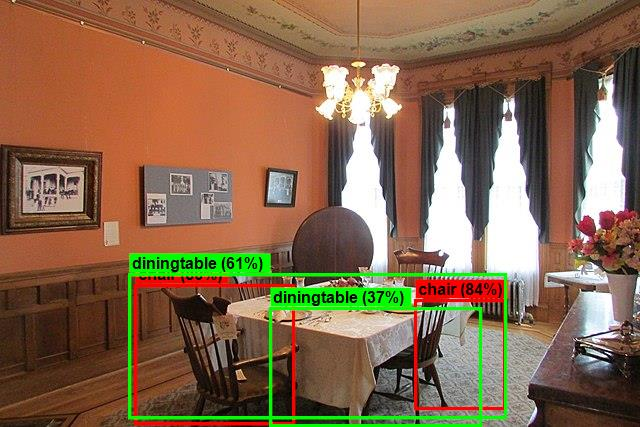
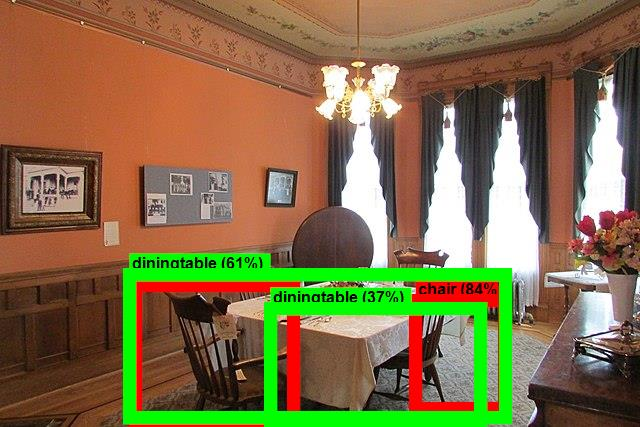
update

Changed region(s): [[0.1875, 0.6089, 0.8125, 1.0]]

diff --git a/ObjectDetection/Program.cs b/ObjectDetection/Program.cs
@@ -95,7 +95,7 @@ namespace ObjectDetection
                     SolidBrush fontBrush = new SolidBrush(Color.Black);
                     Point atPoint = new Point((int)x, (int)y - (int)size.Height - 1);
 
-                    Pen pen = new Pen(box.BoxColor, 3.2f);
+                    Pen pen = new Pen(box.BoxColor, 13.2f);
                     SolidBrush colorBrush = new SolidBrush(box.BoxColor);
 
                     thumbnailGraphic.FillRectangle(colorBrush, (int)x, (int)(y - size.Height - 1), (int)size.Width, (int)size.Height);
